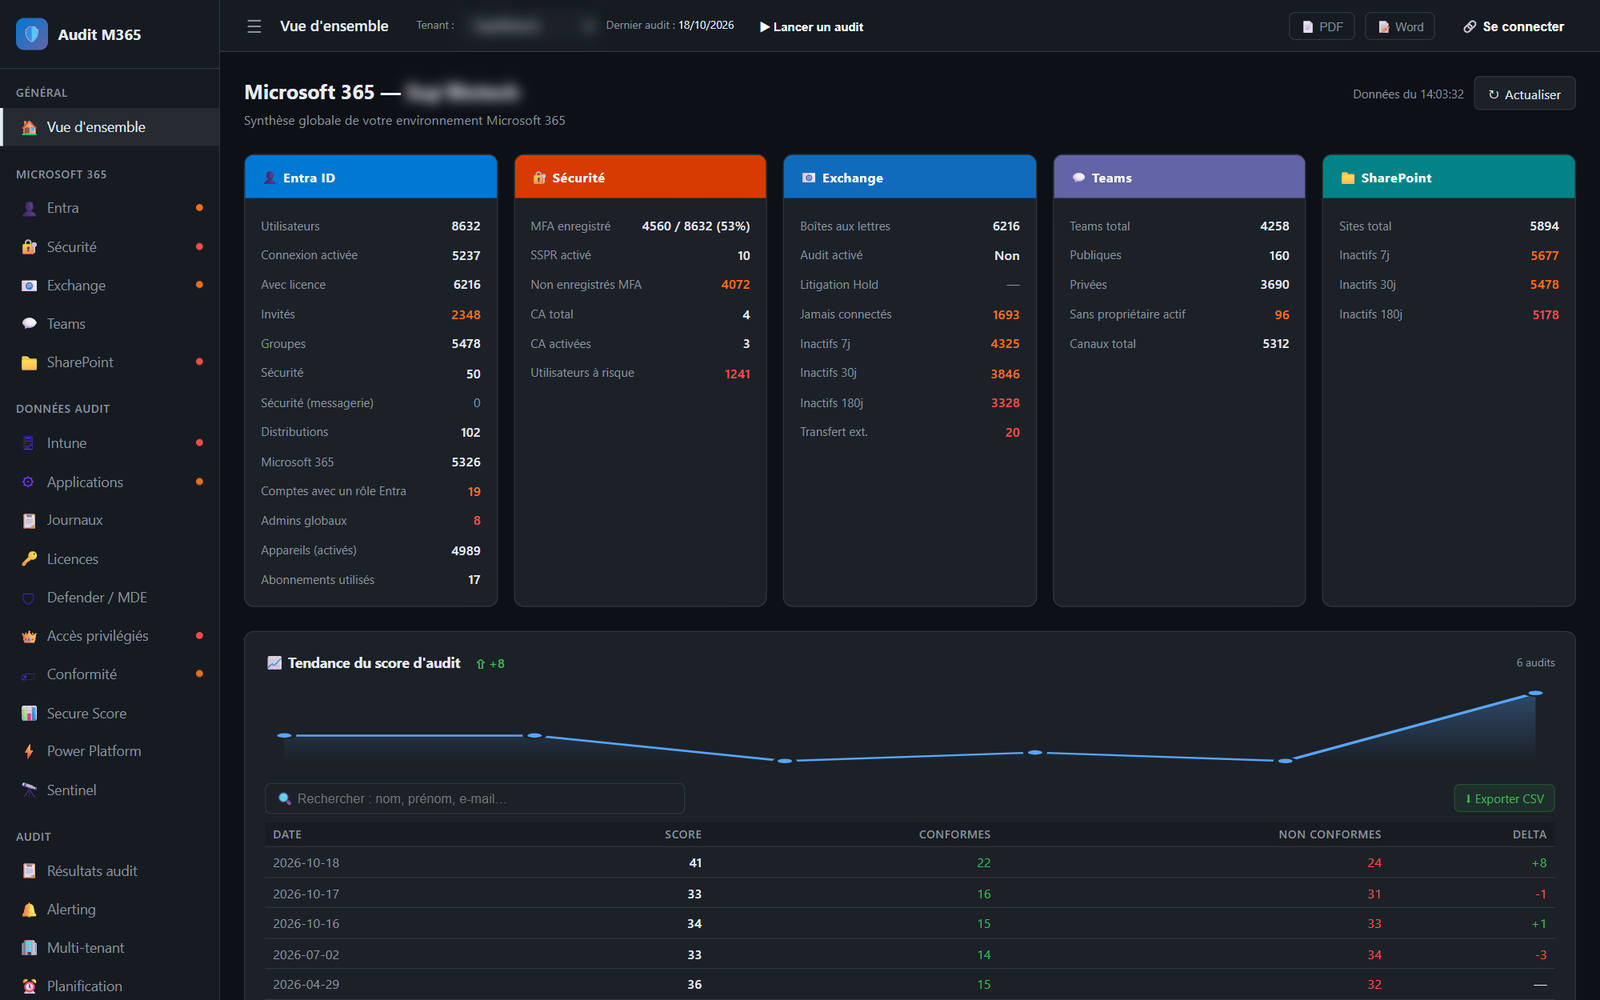
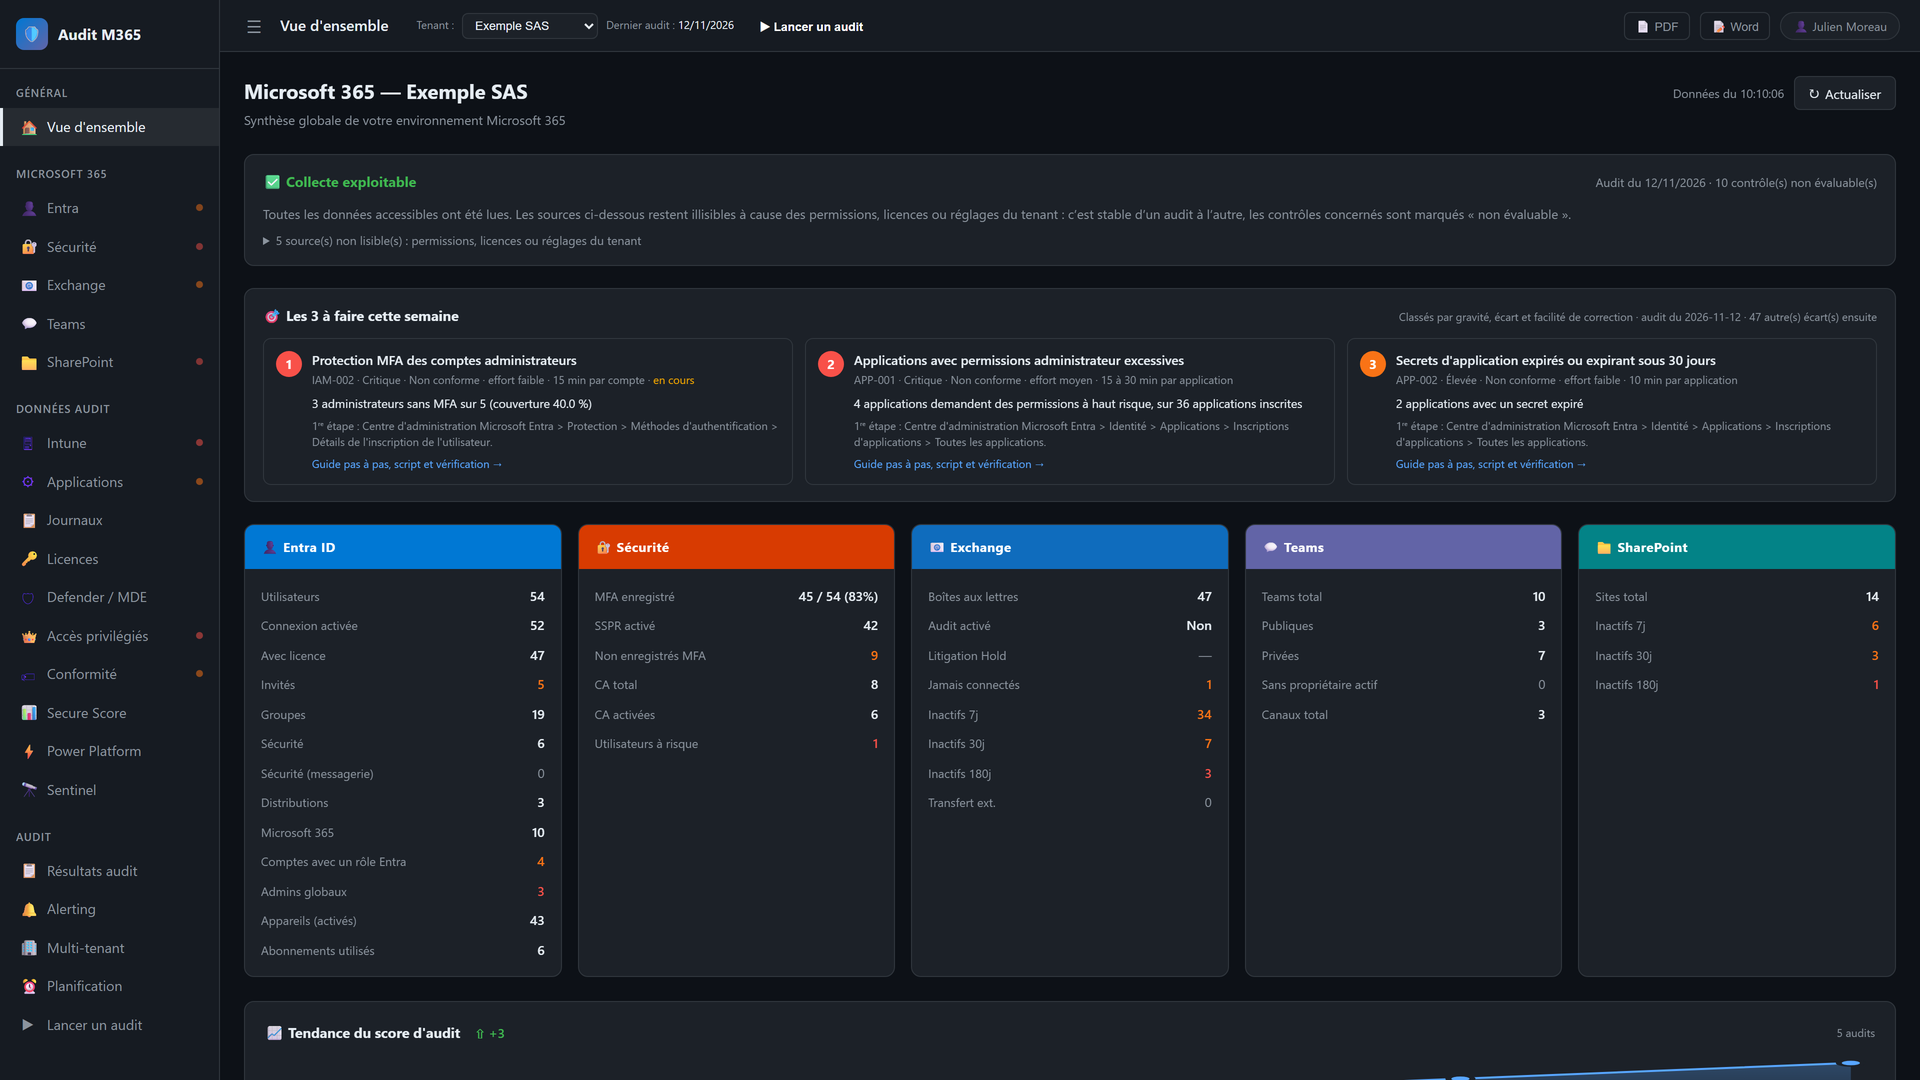
v1.5.9 : Nouveautés ; captures Exemple SAS de l'interface v1.5.8 (accueil et galerie, avant : ancienne interface et vrai tenant flouté) ; icône d'onglet

diff --git a/nouveautes.html b/nouveautes.html
@@ -180,6 +180,9 @@
       .cl-item{gap:16px}
     }
   </style>
+  <link rel="icon" href="/favicon.ico" sizes="any">
+  <link rel="icon" type="image/png" href="/img/icon-192.png">
+  <link rel="apple-touch-icon" href="/img/apple-touch-icon.png">
 </head>
 <body>
 
@@ -233,13 +236,35 @@
   <div class="content-wrap">
     <div class="changelog">
 
+      <!-- v1.5.9 -->
+      <div class="cl-item">
+        <div class="cl-dot minor">📊</div>
+        <div class="cl-body">
+          <div class="cl-header">
+            <span class="cl-version">v1.5.9</span>
+            <span class="cl-tag latest">Dernière version</span>
+            <span class="cl-date">13 novembre 2026</span>
+          </div>
+          <div class="cl-title">Des rapports complets, et 17 guides de correction de plus</div>
+          <div class="cl-desc">Le rapport PowerPoint montre désormais toutes les actions à mener, les plus graves en premier. Purview, Defender for Office 365 et Defender for Endpoint ont leurs guides pas à pas. Et l'audit reste juste et rapide quand les services Microsoft répondent mal.</div>
+          <div class="cl-items">
+            <div class="cl-li"><div class="cl-li-dot new"></div>Guides de correction pour 17 contrôles de plus (Purview, Defender for Office 365, Defender for Endpoint) : étapes dans le portail, script PowerShell à relire et vérification — 57 contrôles guidés sur 86</div>
+            <div class="cl-li"><div class="cl-li-dot fix"></div>Rapport PowerPoint : tous les constats prioritaires et toutes les actions du plan de remédiation, sur autant de diapositives que nécessaire (avant : les 5 et les 14 premiers), et une diapositive pour chaque domaine audité</div>
+            <div class="cl-li"><div class="cl-li-dot fix"></div>Rapports Word et PowerPoint : les constats critiques sont classés en premier (ils l'étaient en dernier)</div>
+            <div class="cl-li"><div class="cl-li-dot fix"></div>Secure Score : une liste incomplète renvoyée par Microsoft est détectée et relue, au lieu de fausser les contrôles Defender for Office 365</div>
+            <div class="cl-li"><div class="cl-li-dot fix"></div>Erreur passagère de Microsoft (502, 503, 504) pendant une lecture : nouvel essai automatique au lieu d'un contrôle « non évaluable »</div>
+            <div class="cl-li"><div class="cl-li-dot fix"></div>Connexion Purview bloquée chez Microsoft : abandon au bout de 3 minutes par essai au lieu de 10, l'audit n'est plus retardé d'une demi-heure</div>
+            <div class="cl-li"><div class="cl-li-dot imp"></div>Composants des rapports installés dans leurs versions testées</div>
+          </div>
+        </div>
+      </div>
+
       <!-- v1.5.8 -->
       <div class="cl-item">
         <div class="cl-dot minor">🩺</div>
         <div class="cl-body">
           <div class="cl-header">
             <span class="cl-version">v1.5.8</span>
-            <span class="cl-tag latest">Dernière version</span>
             <span class="cl-date">13 novembre 2026</span>
           </div>
           <div class="cl-title">Vous savez si l’audit est complet, même pendant un incident Microsoft</div>

diff --git a/index.html b/index.html
@@ -376,6 +376,9 @@
       .hero-btns { flex-direction: column; align-items: center; }
     }
   </style>
+  <link rel="icon" href="/favicon.ico" sizes="any">
+  <link rel="icon" type="image/png" href="/img/icon-192.png">
+  <link rel="apple-touch-icon" href="/img/apple-touch-icon.png">
 </head>
 <body>
 
@@ -597,7 +600,7 @@
       <div class="dl-info">
         <div class="dl-title">⬇ Télécharger AuditM365</div>
         <div class="dl-meta">
-          <span class="dl-badge dl-badge-green" id="dl-version">✓ Dernière version — v1.5.8</span>
+          <span class="dl-badge dl-badge-green" id="dl-version">✓ Dernière version — v1.5.9</span>
           <span class="dl-badge">🪟 Windows 10 / 11</span>
           <span class="dl-badge" id="dl-size">📦 38,5 Mo</span>
           <span class="dl-badge">🔄 Mises à jour automatiques</span>
@@ -611,7 +614,7 @@
       </div>
       <a href="https://github.com/LSOTA/AuditM365-Site/releases/latest/download/AuditM365-Setup.exe" class="dl-btn">
         <span class="dl-btn-icon">⬇</span>
-        <span>Télécharger l'installateur<br><small id="dl-btn-meta" style="font-weight:400;font-size:12px;opacity:.8">v1.5.8 — 38,5 Mo</small></span>
+        <span>Télécharger l'installateur<br><small id="dl-btn-meta" style="font-weight:400;font-size:12px;opacity:.8">v1.5.9 — 38,5 Mo</small></span>
       </a>
     </div>
   </div>

diff --git a/controles.html b/controles.html
@@ -197,6 +197,9 @@
       .cl-item{gap:16px}
     }
   </style>
+  <link rel="icon" href="/favicon.ico" sizes="any">
+  <link rel="icon" type="image/png" href="/img/icon-192.png">
+  <link rel="apple-touch-icon" href="/img/apple-touch-icon.png">
 </head>
 <body>
 
